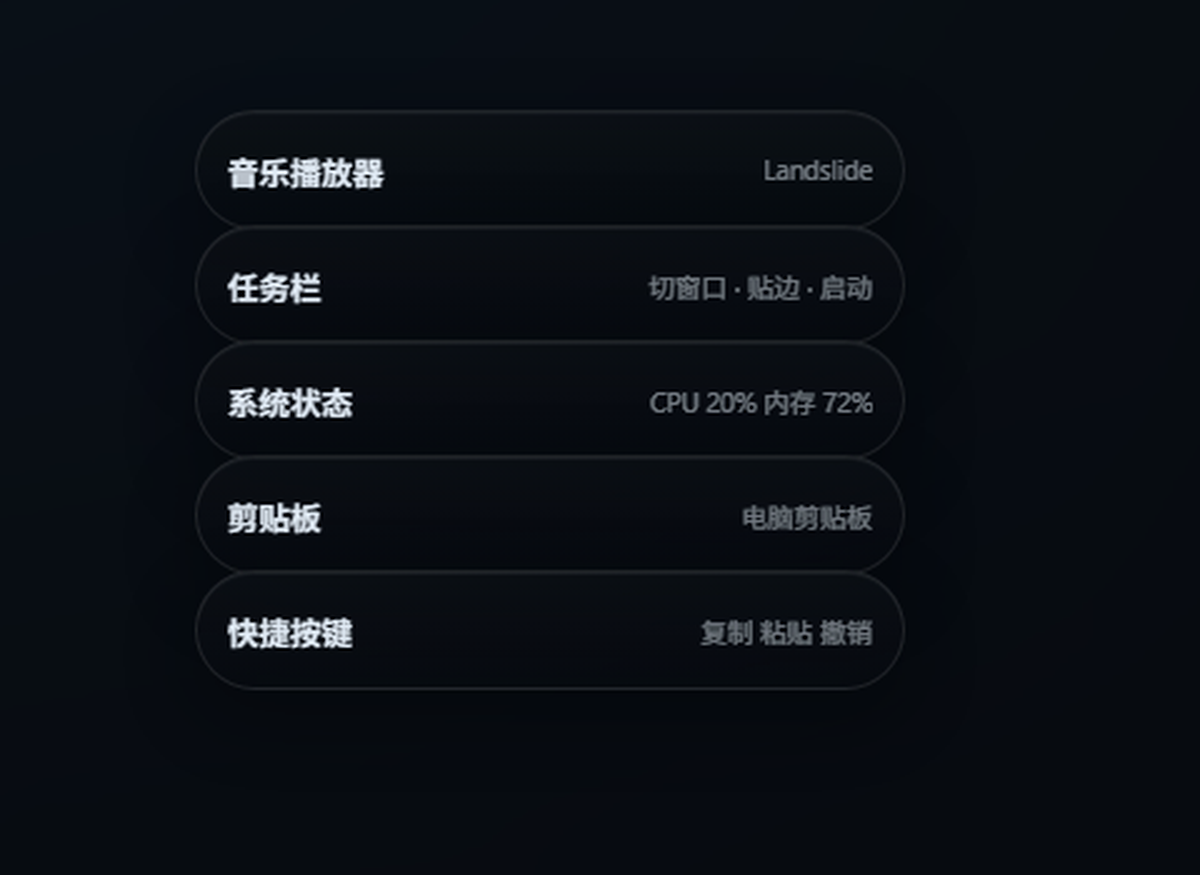
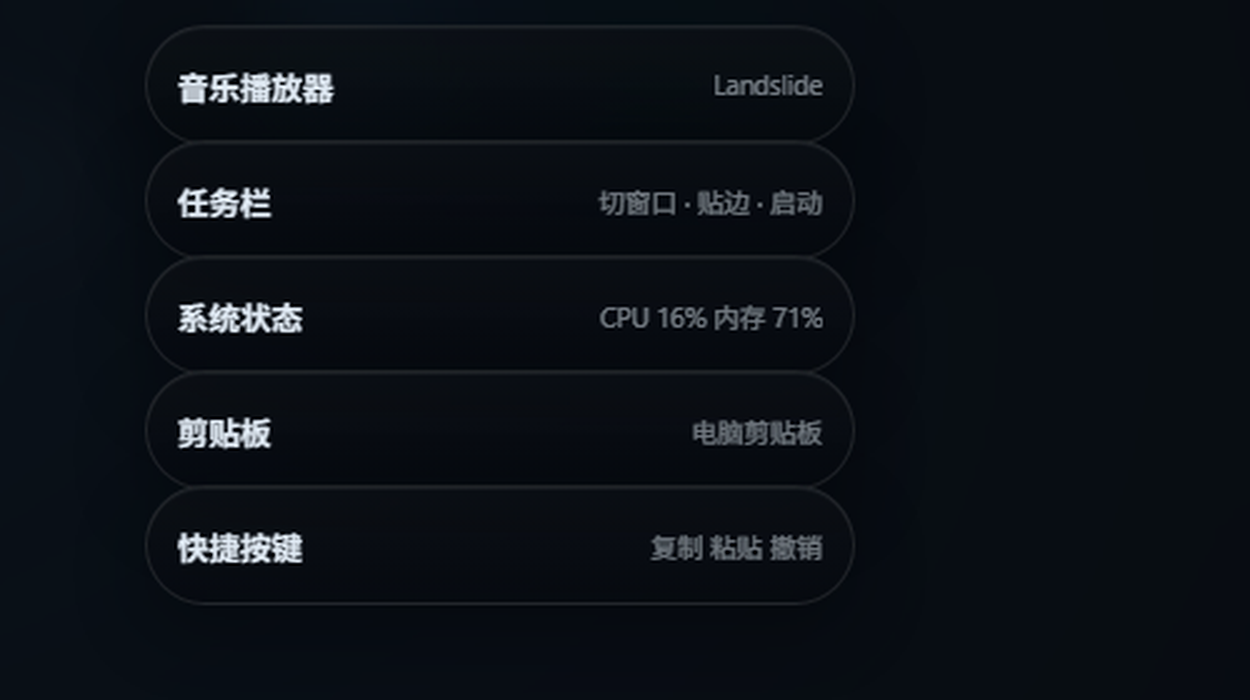
feat(island): 摊牌从灵动岛原位无缝展开
- 打开时按灵动岛当前矩形定位每张牌，第一张正好盖住岛，其余向下依次滑出
- 目标 Y 改为 i*46（不再整组居中），去掉跳屏现象
- 遮罩改为 opacity 淡入，不再瞬间盖住
- 面板打开期间隐藏真岛（islandHidden 参与 islandPaint），避免两层文字透叠；
  关闭时恢复
- 实测：岛与第一张牌位置完全一致 (498,10,284x48)，偏移 [0,46,92,138,184]

diff --git a/web/app.js b/web/app.js
@@ -308,6 +308,7 @@
   const ISLAND_SWITCH = 16;    // 松手时位移超过这个就翻页
   const ISLAND_SLOP = 6;       // 超过这个算滑动，不再当点击
   let islandPos = 0;           // 浮点索引：0 = 第一张在前
+  let islandHidden = false;    // 摊牌面板打开时把真岛藏起来（否则两层文字会透）
   let islandActive = -1;
   let islandDrag = null;
   let islandSwallowClick = 0;
@@ -363,7 +364,7 @@
       c.el.style.transition = tr;
       c.el.style.transform =
         `translateX(-50%) translateY(${y.toFixed(2)}px) scale(${sc.toFixed(3)})`;
-      c.el.style.opacity = String(op);
+      c.el.style.opacity = (c.el === island && islandHidden) ? '0' : String(op);
       c.el.style.zIndex = front ? '71' : '69';
       c.el.style.pointerEvents = (front && op > 0.8) ? 'auto' : 'none';
       c.el.classList.toggle('front', front);
@@ -1127,10 +1128,21 @@
     window.addEventListener('pointercancel', fanPressEnd, true);
   }
 
-  // 每张卡的目标 Y（以整组居中）
+  // 第一张牌就压在灵动岛上（y=0），后面的依次往下排
   function fanTargetY(i, n) {
-    const offset = -((n - 1) * FAN_STEP) / 2;
-    return offset + i * FAN_STEP;
+    return i * FAN_STEP;
+  }
+
+  // 把每张牌摆到灵动岛的位置和尺寸上
+  function fanAlignToIsland() {
+    if (!island) return;
+    const r = island.getBoundingClientRect();
+    fanMap.forEach((el) => {
+      el.style.left = r.left + 'px';
+      el.style.top = r.top + 'px';
+      el.style.width = r.width + 'px';
+      el.style.height = r.height + 'px';
+    });
   }
 
   function fanLayout(animate, delayBase) {
@@ -1295,8 +1307,15 @@
     // 灵动岛先自动翻到第一张卡
     islandPos = 0;
     islandPaint(true);
+    // 真岛先藏起来：第一张牌就在它原位，玻璃是半透明的，不藏会透出两层文字
+    islandHidden = true;
+    island.style.opacity = '0';
+    island.style.pointerEvents = 'none';
 
-    // 所有牌先叠在灵动岛的位置（同一处），再一张张向下摊开
+    // 对齐到灵动岛当前的位置：第一张就盖在岛上，看起来是「从岛上长出来」
+    fanAlignToIsland();
+
+    // 所有牌先叠在一起（都在灵动岛原位），再一张张向下摊开
     const ids = cfgOrdered().map((c) => c.id);
     const n = ids.length;
     ids.forEach((id) => {
@@ -1334,8 +1353,14 @@
     setTimeout(() => {
       cfgPanel.classList.remove('on');
       cfgPanel.setAttribute('aria-hidden', 'true');
+      islandHidden = false;
+      islandPaint(true);          // 真岛恢复显示
     }, 300);
   }
+
+  window.addEventListener('resize', () => {
+    if (cfgPanel && cfgPanel.classList.contains('on')) fanAlignToIsland();
+  });
 
   if (cfgDoneBtn) cfgDoneBtn.addEventListener('click', (e) => { e.stopPropagation(); cfgClosePanel(); });
   if (cfgPanel) {

diff --git a/web/app.css b/web/app.css
@@ -1338,18 +1338,18 @@ html.glass-light {
   /* ================= 灵动岛设置：扑克摊牌 ================= */
   .islandcfg {
     position: fixed; inset: 0; z-index: 92; display: none;
+    opacity: 0; transition: opacity .26s ease;
     background: rgba(3, 5, 8, .52);
     backdrop-filter: blur(24px) saturate(140%);
     -webkit-backdrop-filter: blur(24px) saturate(140%);
   }
-  .islandcfg.on { display: block; }
+  .islandcfg.on { display: block; opacity: 1; }
   .fanstage { position: absolute; inset: 0; }
 
   /* 摊开的牌 = 灵动岛同款卡片（尺寸/玻璃/圆角全部复用 .island-card） */
   .fanstage .island-card {
-    position: absolute; left: 50%; top: 50%;
-    margin-left: calc(var(--card-w) / -2);
-    margin-top: calc(var(--card-h) / -2);
+    /* 位置由 JS 按灵动岛当前矩形设置，保证从岛上长出来 */
+    position: absolute; left: 0; top: 0; margin: 0;
     width: var(--card-w); height: var(--card-h);
     opacity: 1; pointer-events: auto;
     display: flex; align-items: center; gap: 8px;

diff --git a/web/index.html b/web/index.html
@@ -5,7 +5,7 @@
 <meta name="viewport" content="width=device-width,initial-scale=1,maximum-scale=1,user-scalable=no,viewport-fit=cover">
 <meta name="theme-color" content="#0d1117">
 <title>PadTrack 触控板</title>
-<link rel="stylesheet" href="app.css?v=1186">
+<link rel="stylesheet" href="app.css?v=1187">
 </head>
 <body>
 
@@ -300,6 +300,6 @@
   </div>
 </div>
 
-<script src="app.js?v=1186"></script>
+<script src="app.js?v=1187"></script>
 </body>
 </html>

diff --git a/交接文档.md b/交接文档.md
@@ -1031,3 +1031,11 @@ vidia-smi 取占用/显存/温度，CPU 温度走 WMI
 
 踩坑：初始「叠在中间」的状态把 opacity 设成 0 后忘了恢复，
 表现是面板打开了但一张卡都看不见 —— fanLayout 里必须显式把 opacity 设回 1。
+### 摊牌改成从灵动岛原位长出来
+
+- 打开时读灵动岛的 getBoundingClientRect()，把每张牌摆到**完全相同的位置和尺寸**，
+  第一张正好盖住岛 → 视觉上是「从岛上拉开」
+- 目标 Y 从「整组居中」改成 i * 46（第一张就在 0），不再跳到屏幕中间
+- 遮罩改成 opacity 淡入（.26s），不是一下盖住
+- 面板打开期间把真岛 opacity 设 0（islandHidden 标志，islandPaint 里会尊重它），
+  否则两层文字会透过半透明玻璃叠在一起；关掉面板时恢复
